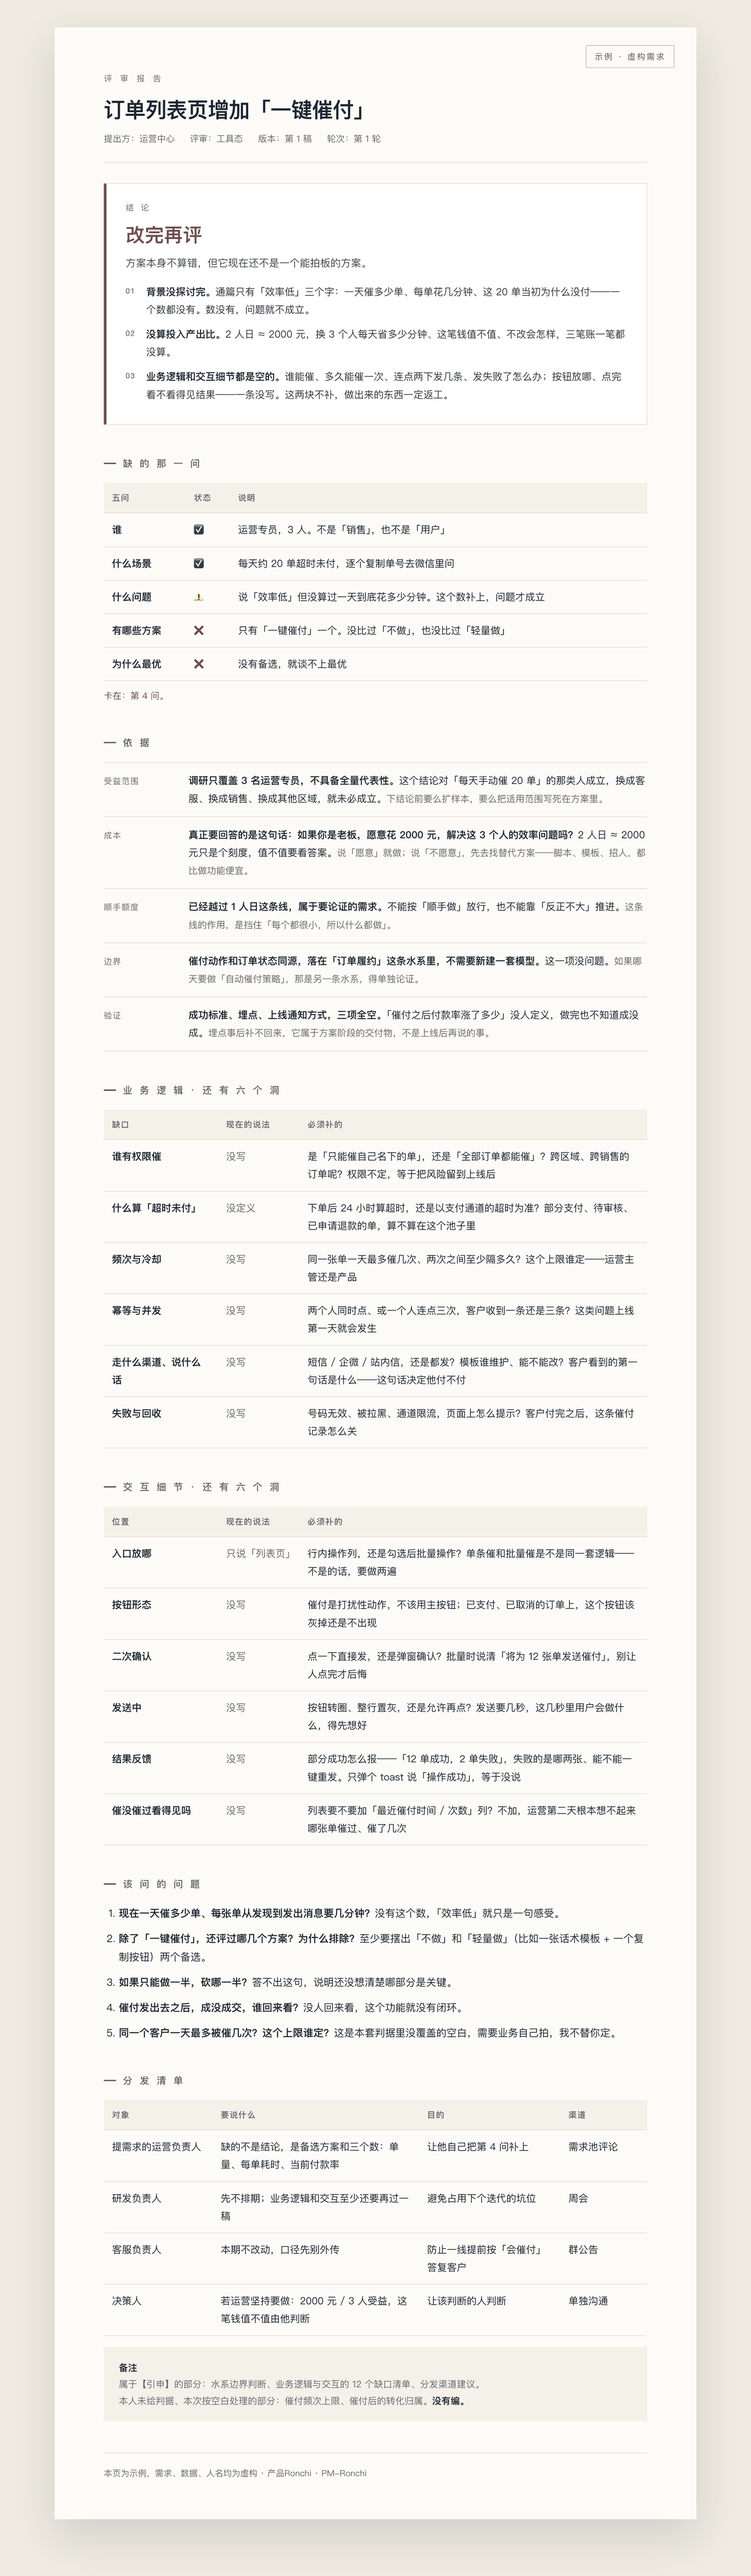
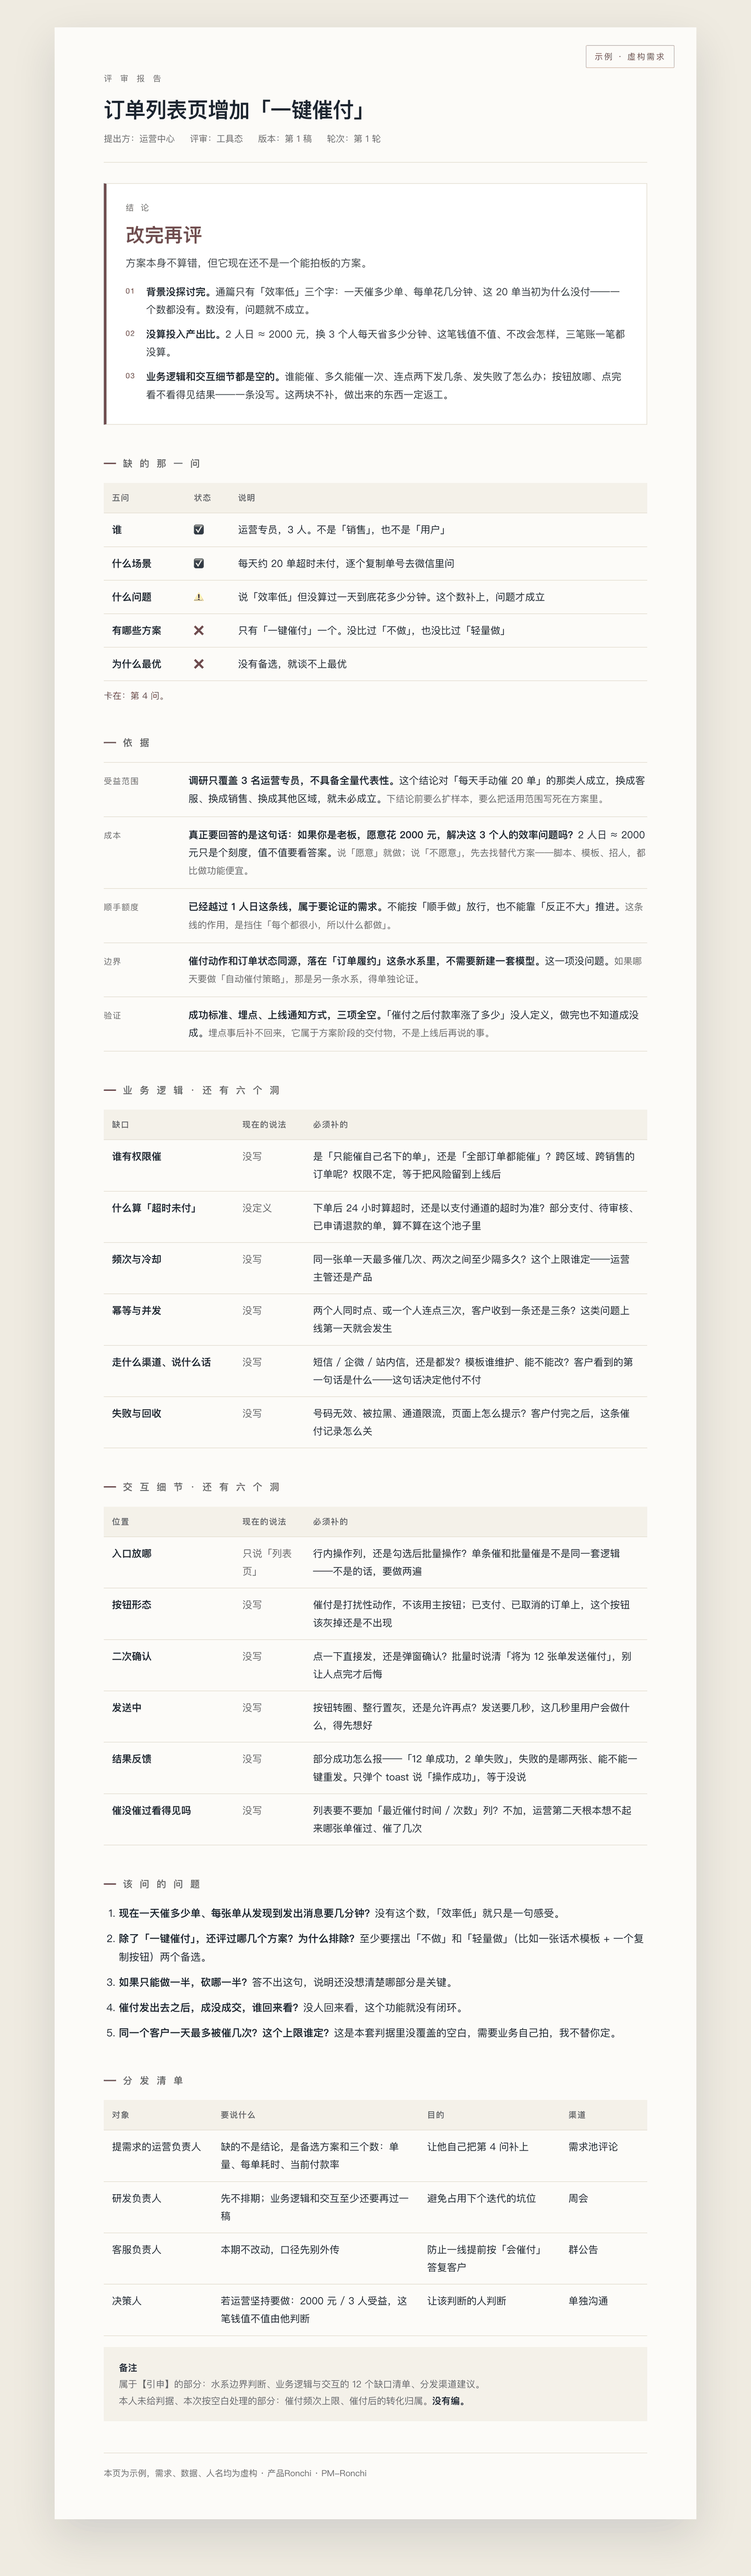
polish: 缺口表首列加宽，避免「走什么渠道、说什么话」折行

diff --git a/docs/demo-review.html b/docs/demo-review.html
@@ -141,7 +141,7 @@
 
   <h2>业 务 逻 辑 · 还 有 六 个 洞</h2>
   <table>
-    <thead><tr><th style="width:21%">缺口</th><th style="width:15%">现在的说法</th><th>必须补的</th></tr></thead>
+    <thead><tr><th style="width:24%">缺口</th><th style="width:13%">现在的说法</th><th>必须补的</th></tr></thead>
     <tbody>
       <tr><td><b>谁有权限催</b></td><td class="now">没写</td><td>是「只能催自己名下的单」，还是「全部订单都能催」？跨区域、跨销售的订单呢？权限不定，等于把风险留到上线后</td></tr>
       <tr><td><b>什么算「超时未付」</b></td><td class="now">没定义</td><td>下单后 24 小时算超时，还是以支付通道的超时为准？部分支付、待审核、已申请退款的单，算不算在这个池子里</td></tr>
@@ -154,7 +154,7 @@
 
   <h2>交 互 细 节 · 还 有 六 个 洞</h2>
   <table>
-    <thead><tr><th style="width:21%">位置</th><th style="width:15%">现在的说法</th><th>必须补的</th></tr></thead>
+    <thead><tr><th style="width:24%">位置</th><th style="width:13%">现在的说法</th><th>必须补的</th></tr></thead>
     <tbody>
       <tr><td><b>入口放哪</b></td><td class="now">只说「列表页」</td><td>行内操作列，还是勾选后批量操作？单条催和批量催是不是同一套逻辑——不是的话，要做两遍</td></tr>
       <tr><td><b>按钮形态</b></td><td class="now">没写</td><td>催付是打扰性动作，不该用主按钮；已支付、已取消的订单上，这个按钮该灰掉还是不出现</td></tr>
